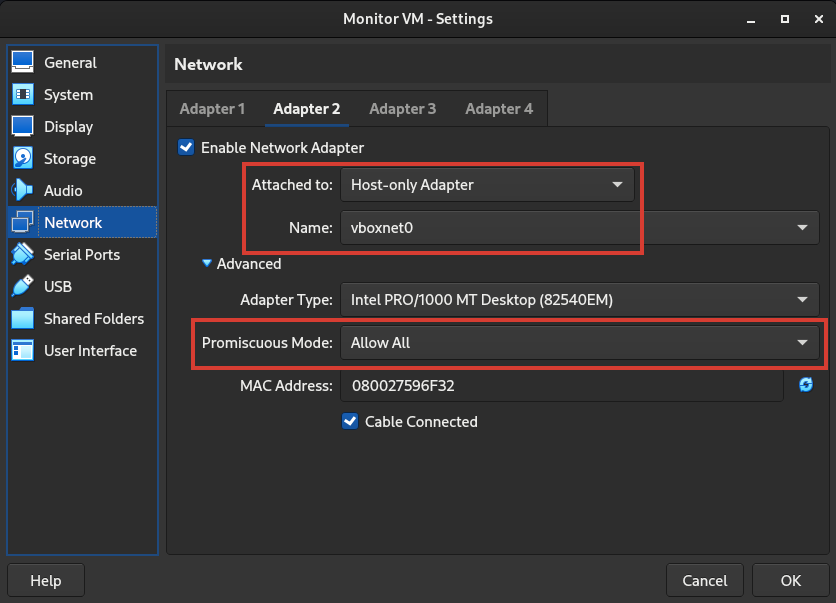
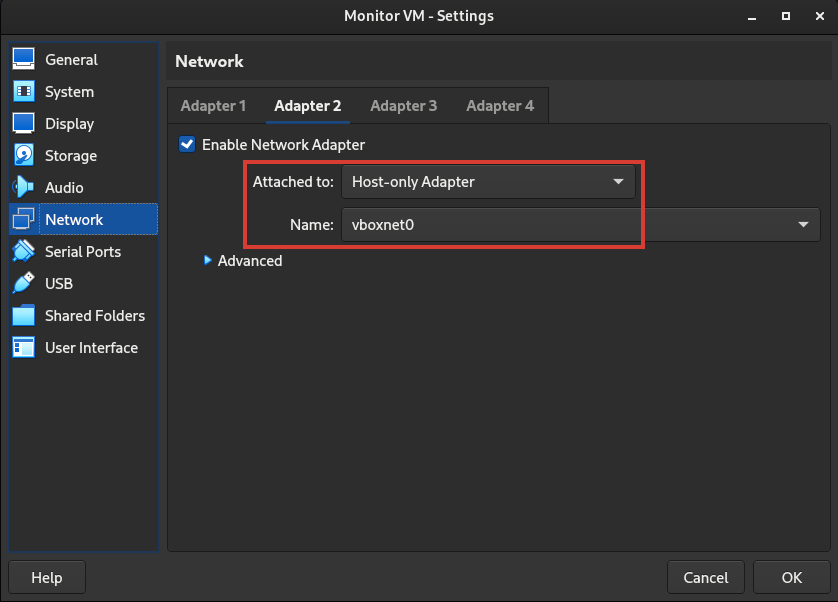
fixed monitor vm setup image: wrong network settings

diff --git a/docs/A._Einrichtung/0_intro.md b/docs/A._Einrichtung/0_intro.md
@@ -42,6 +42,10 @@ In den erweiterten Einstellungen setzen wir den Promiscuous Mode auf "Allow All"
 der VM alle empfangenen Frames, anstatt nur die Frames, welche an die eigene MAC-Adresse adressiert sind.
 
 <figure markdown>
+  ![](../assets/img/setup/virtualbox/monitor-vm-internal-adapter.png){ loading=lazy }
+</figure>
+
+<figure markdown>
   ![](../assets/img/setup/virtualbox/monitor-vm-host-only-adapter.png){ loading=lazy }
 </figure>
 
